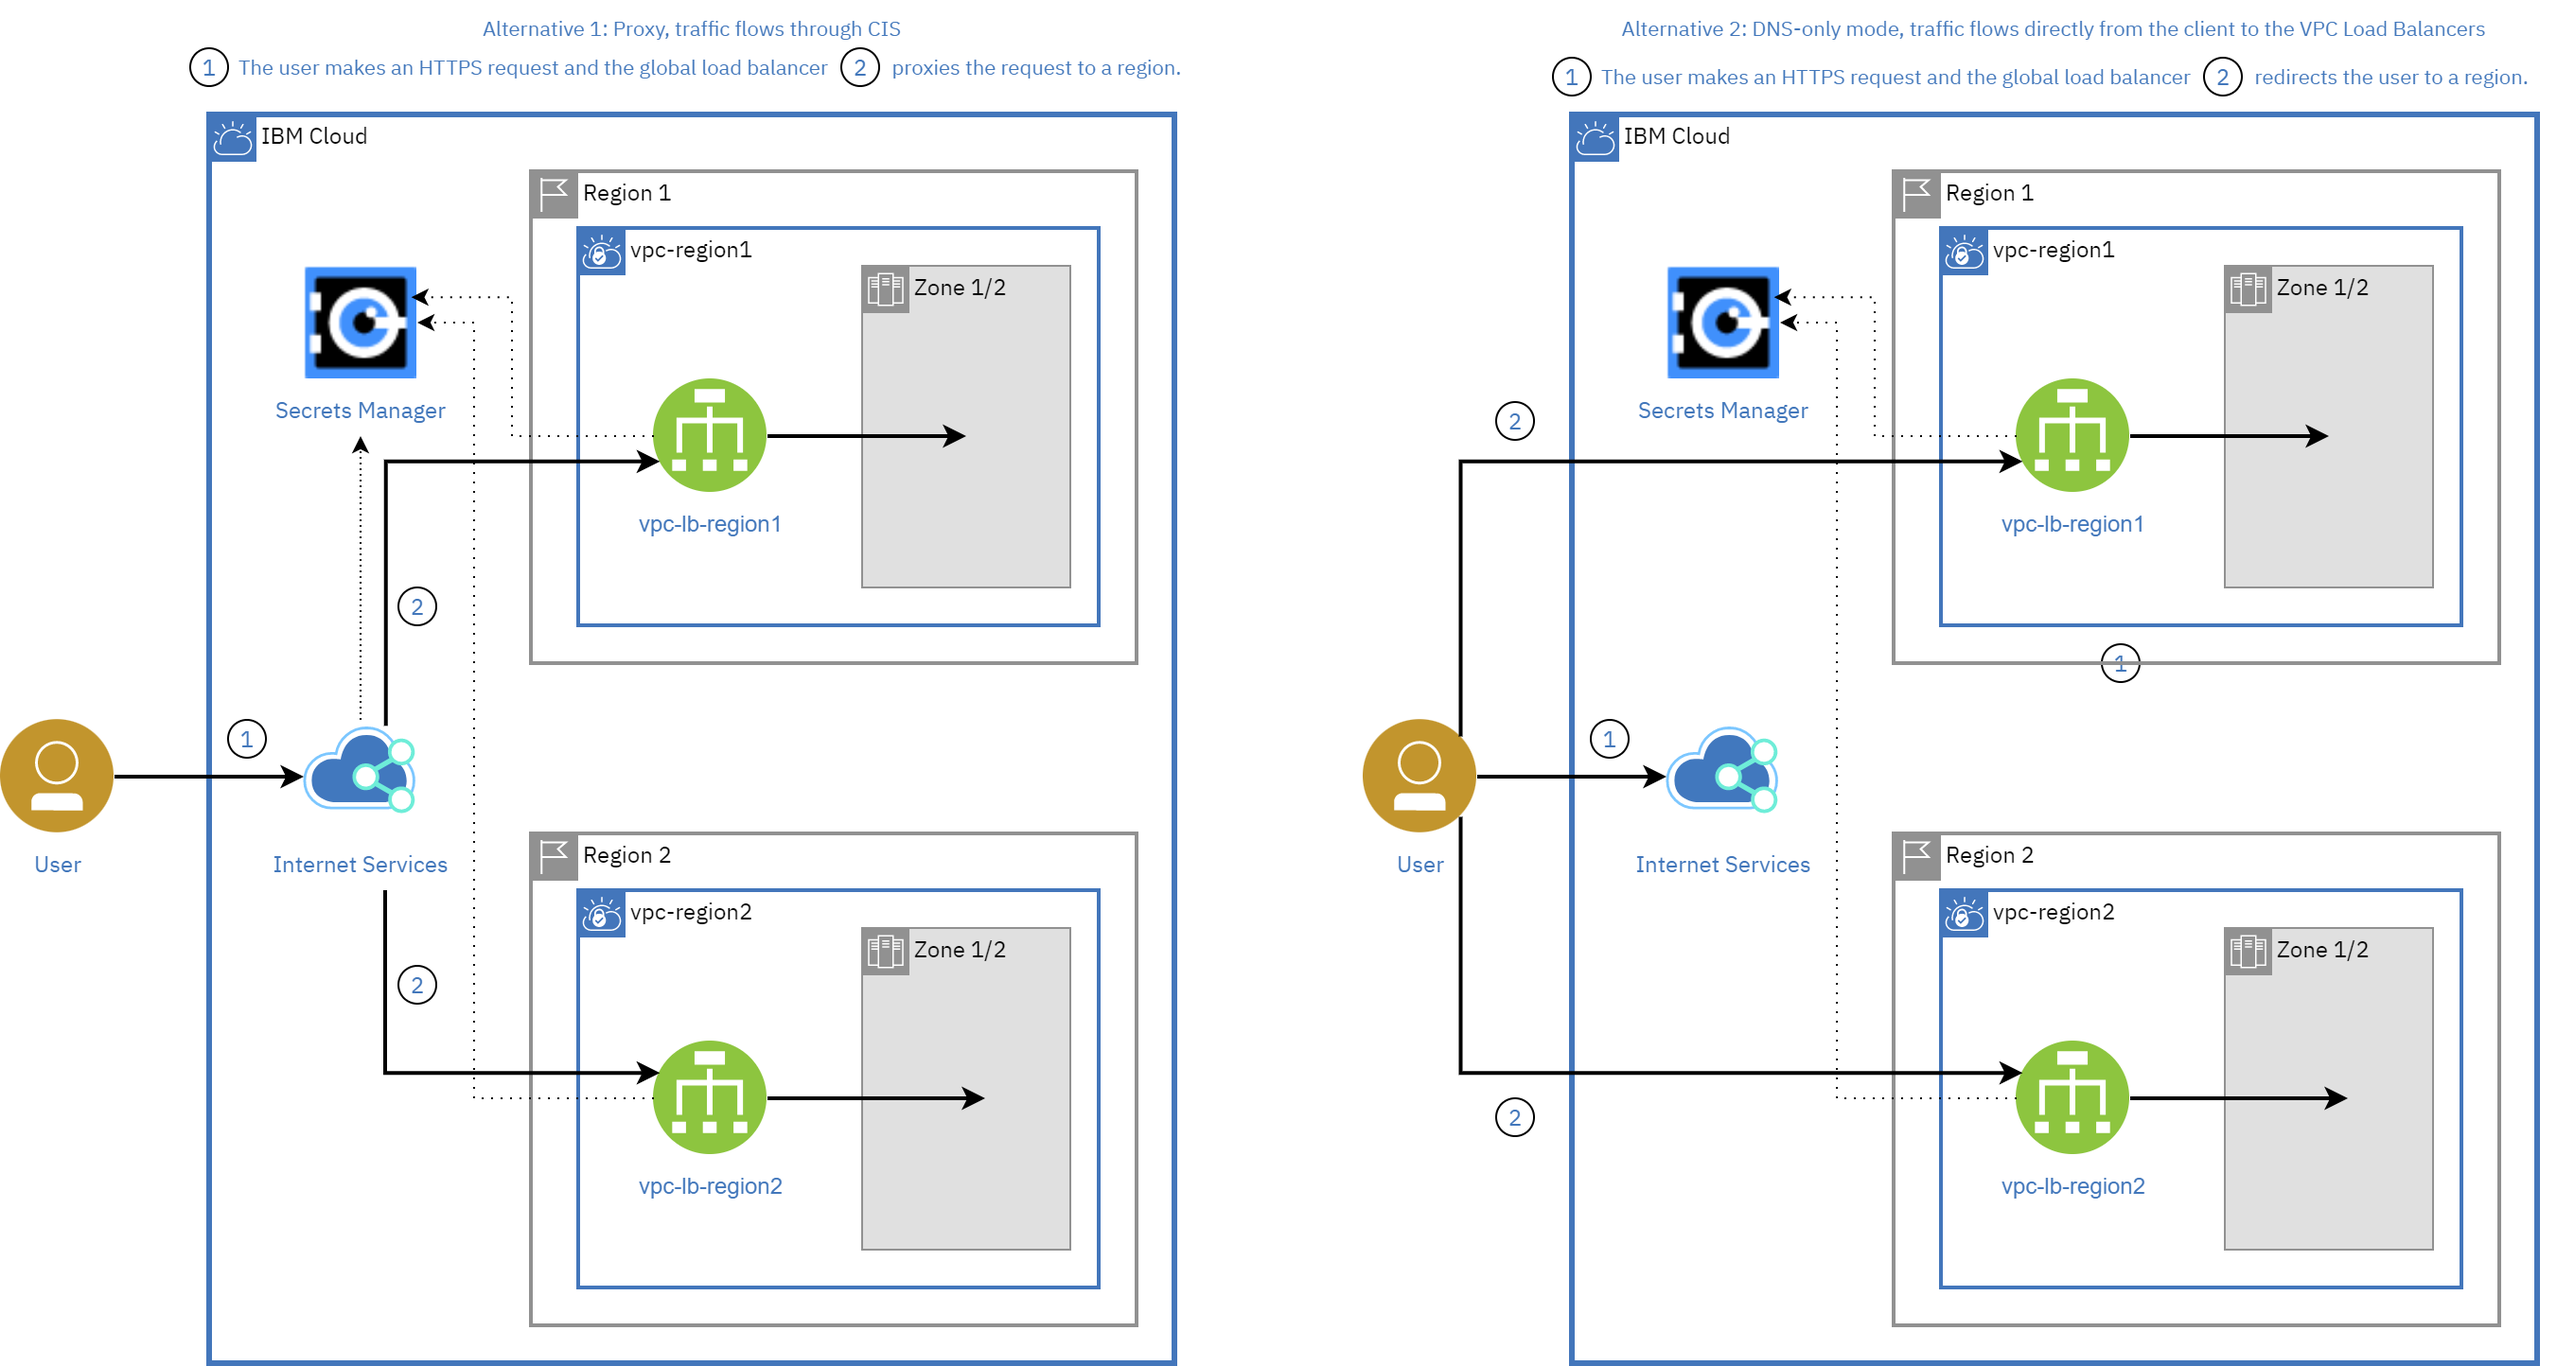
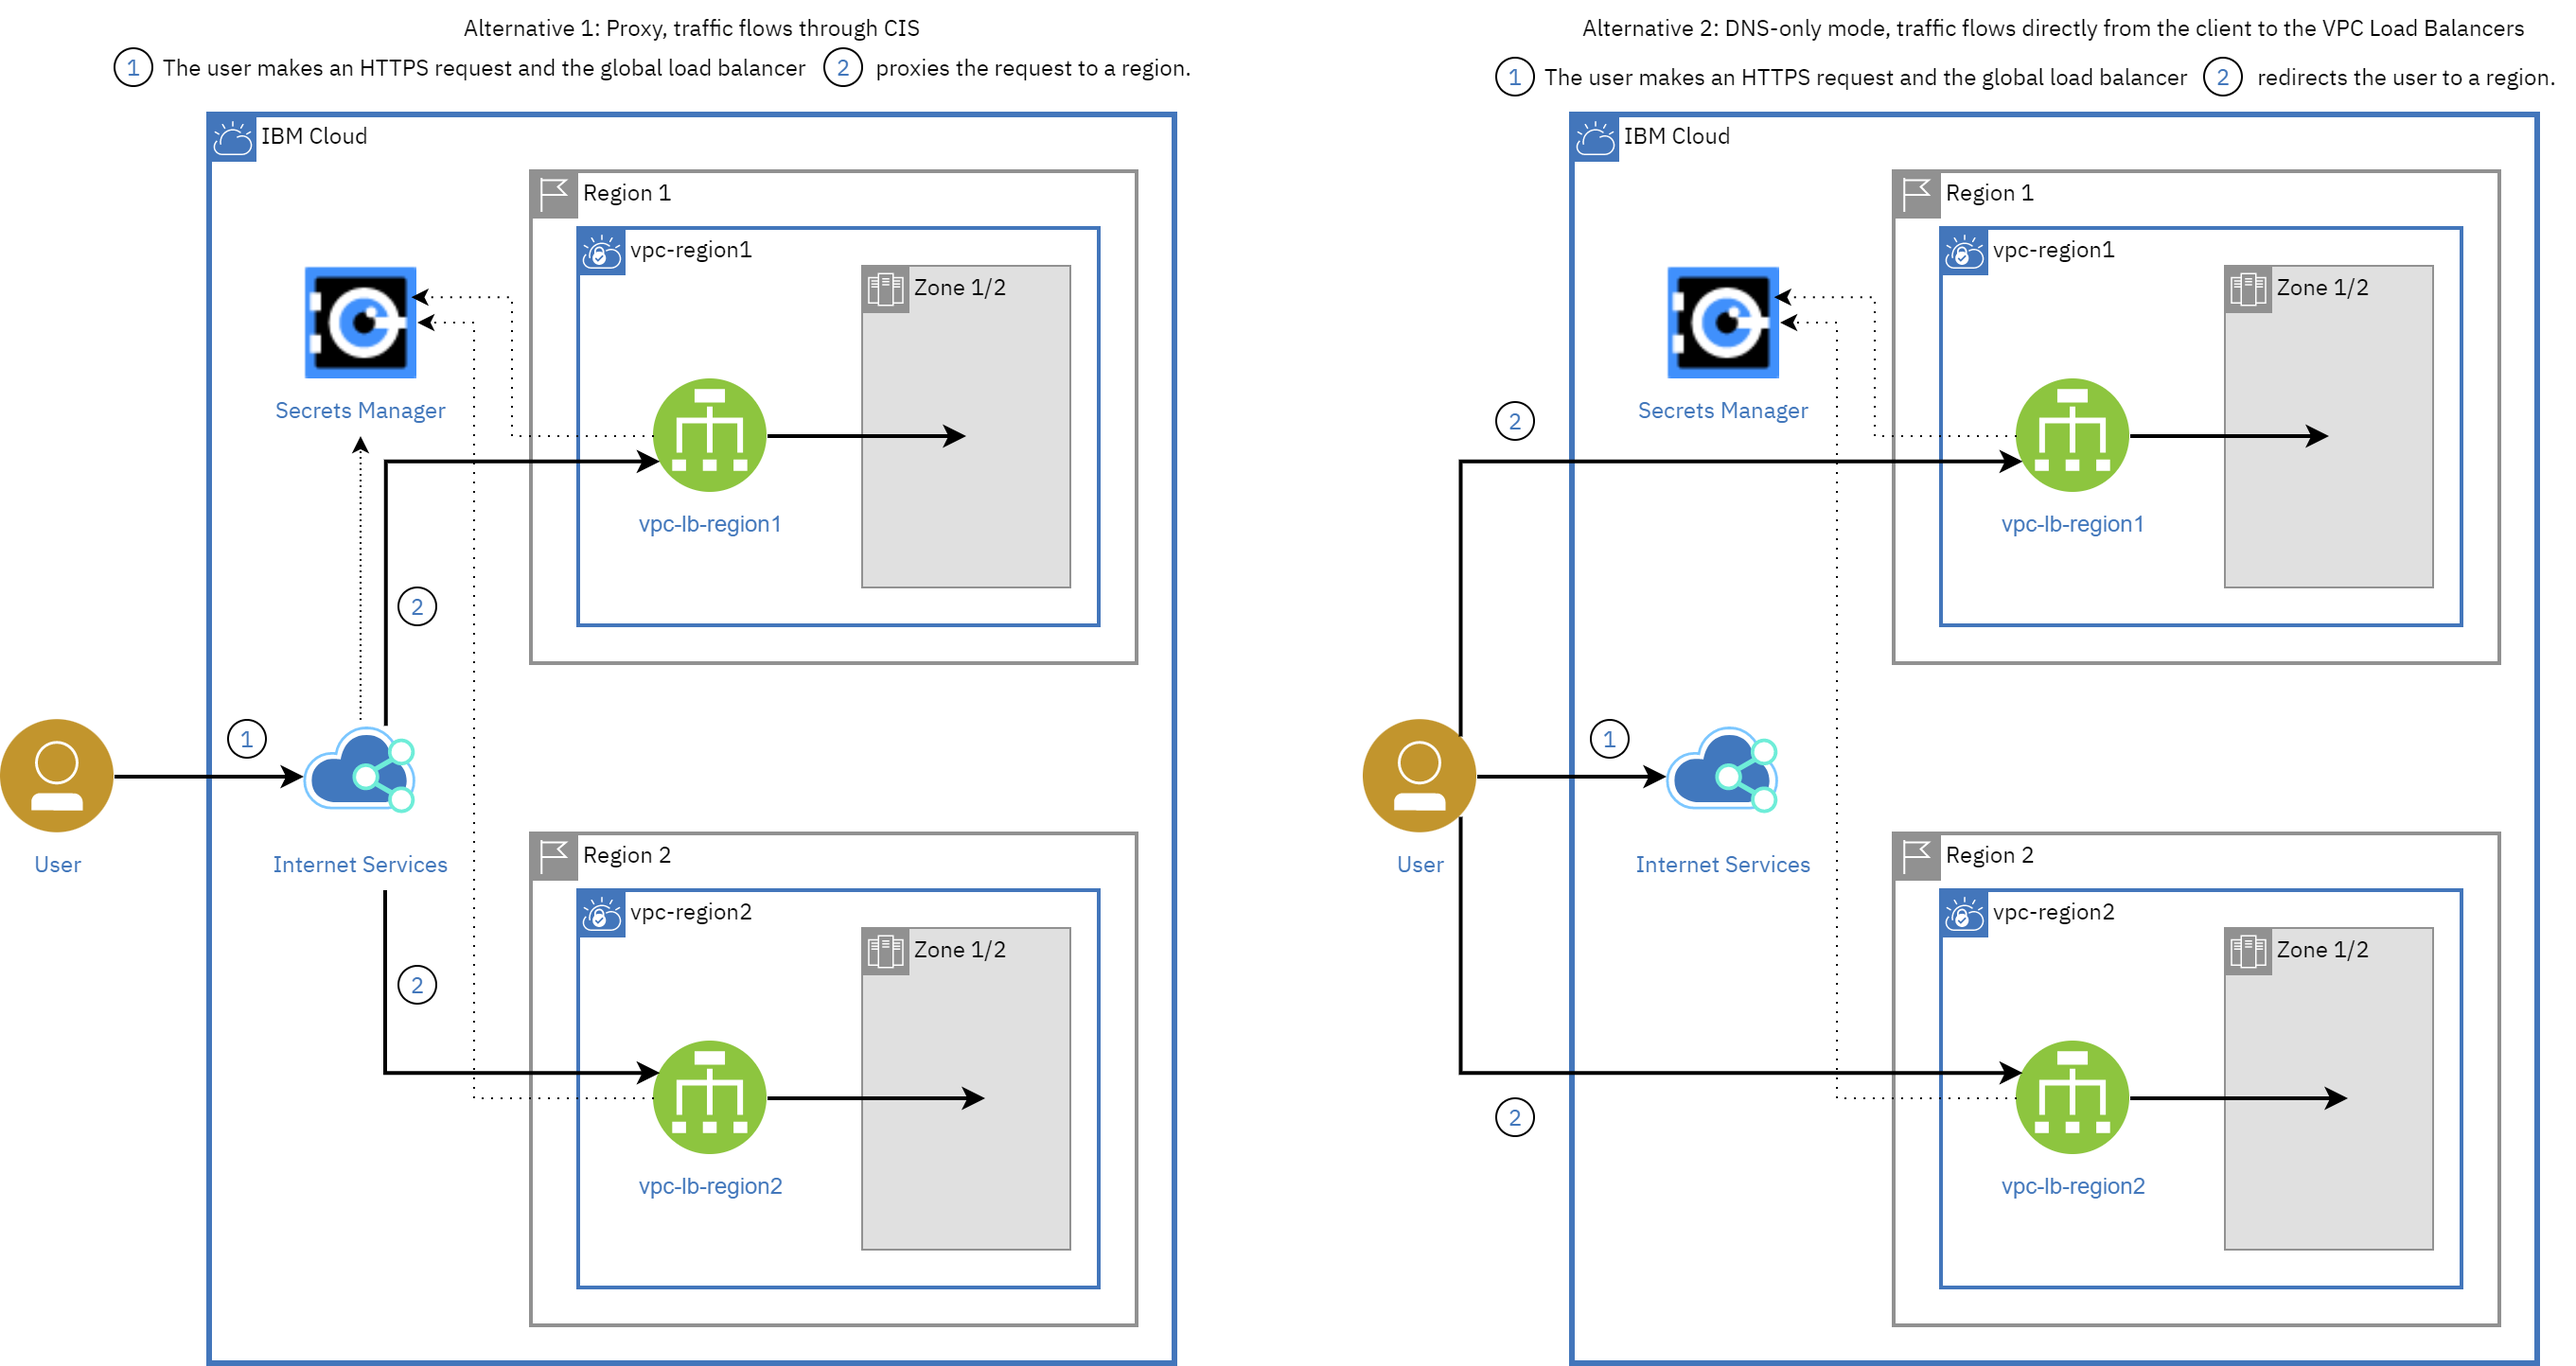
removed 50% and updated diagrams

diff --git a/vpc-multi-region.md b/vpc-multi-region.md
@@ -367,7 +367,7 @@ IBM {{site.data.keyword.cis_short_notm}} supports proxying for global load balan
 
 For more information read through the [Proxying DNS records and global load balancers](https://{DomainName}/docs/cis?topic=cis-dns-concepts#dns-concepts-proxying-dns-records) topic. Consider which of the two alternatives below best match your use case before proceeding.
 
-![Architecture](images/solution41-vpc-multi-region/vpc-multi-region-alternatives-50.png){: class="center"}
+![Architecture](images/solution41-vpc-multi-region/vpc-multi-region-alternatives.png){: class="center"}
 {: style="text-align: center;"}
 
 ### Alternative 1: Proxy, traffic flows through {{site.data.keyword.cis_short_notm}}
